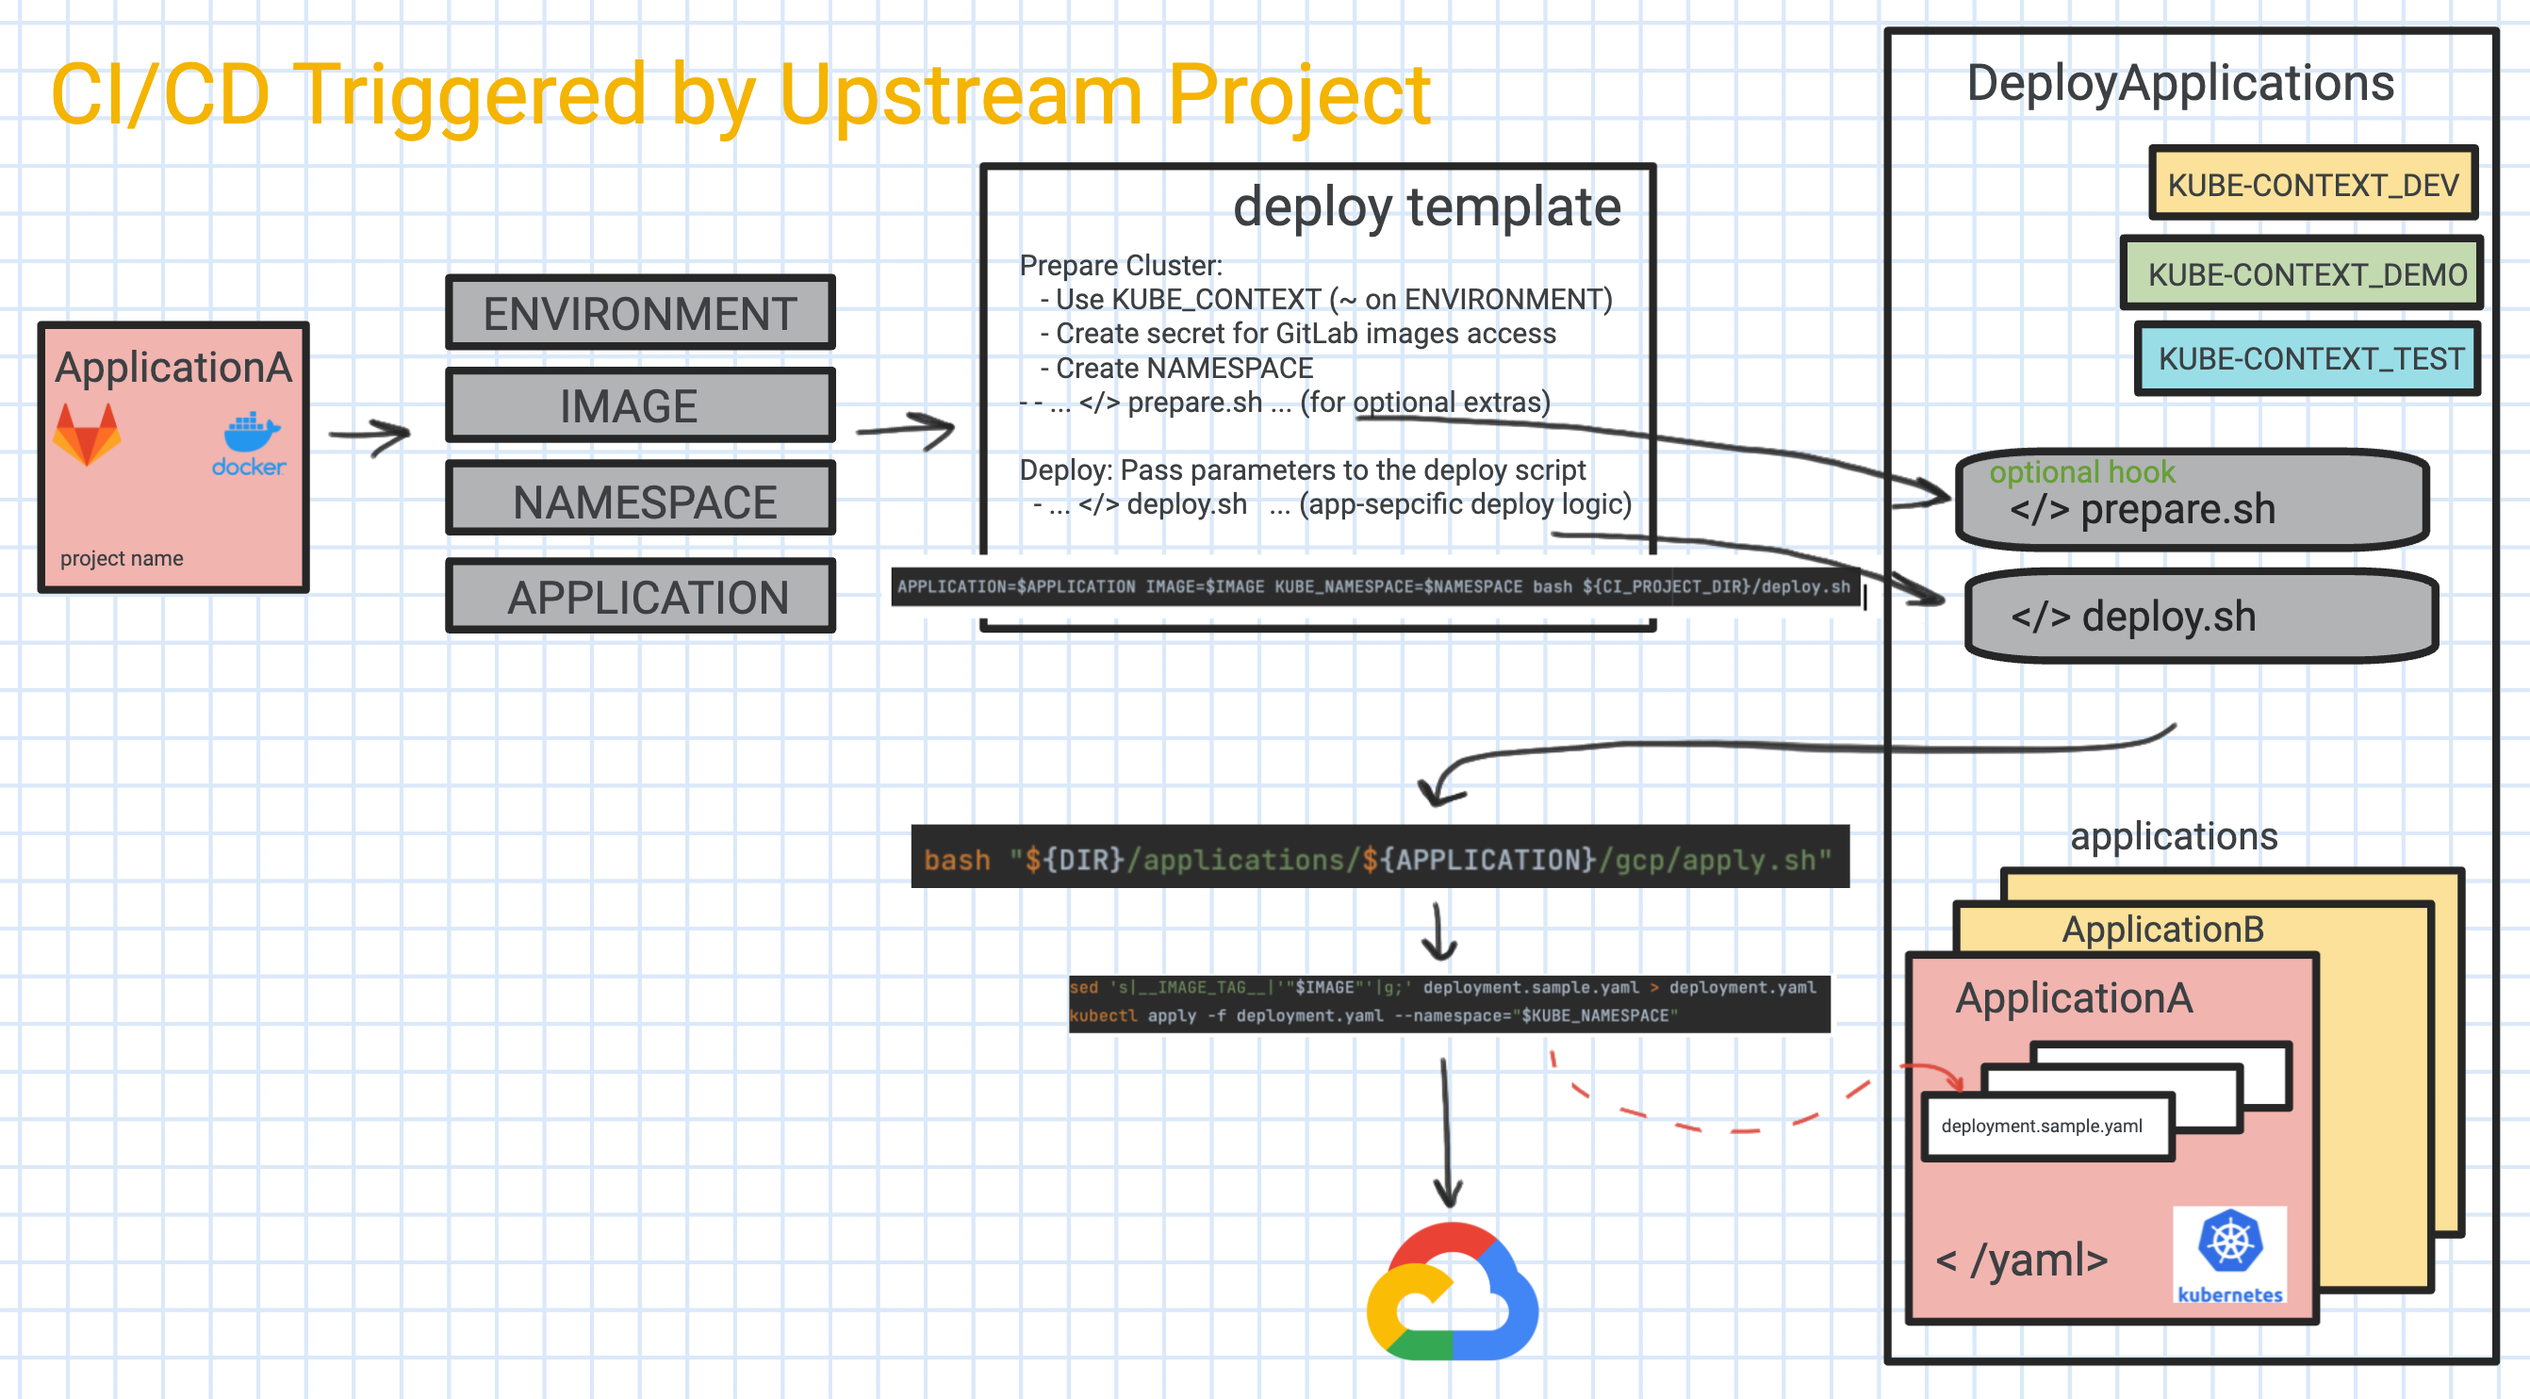
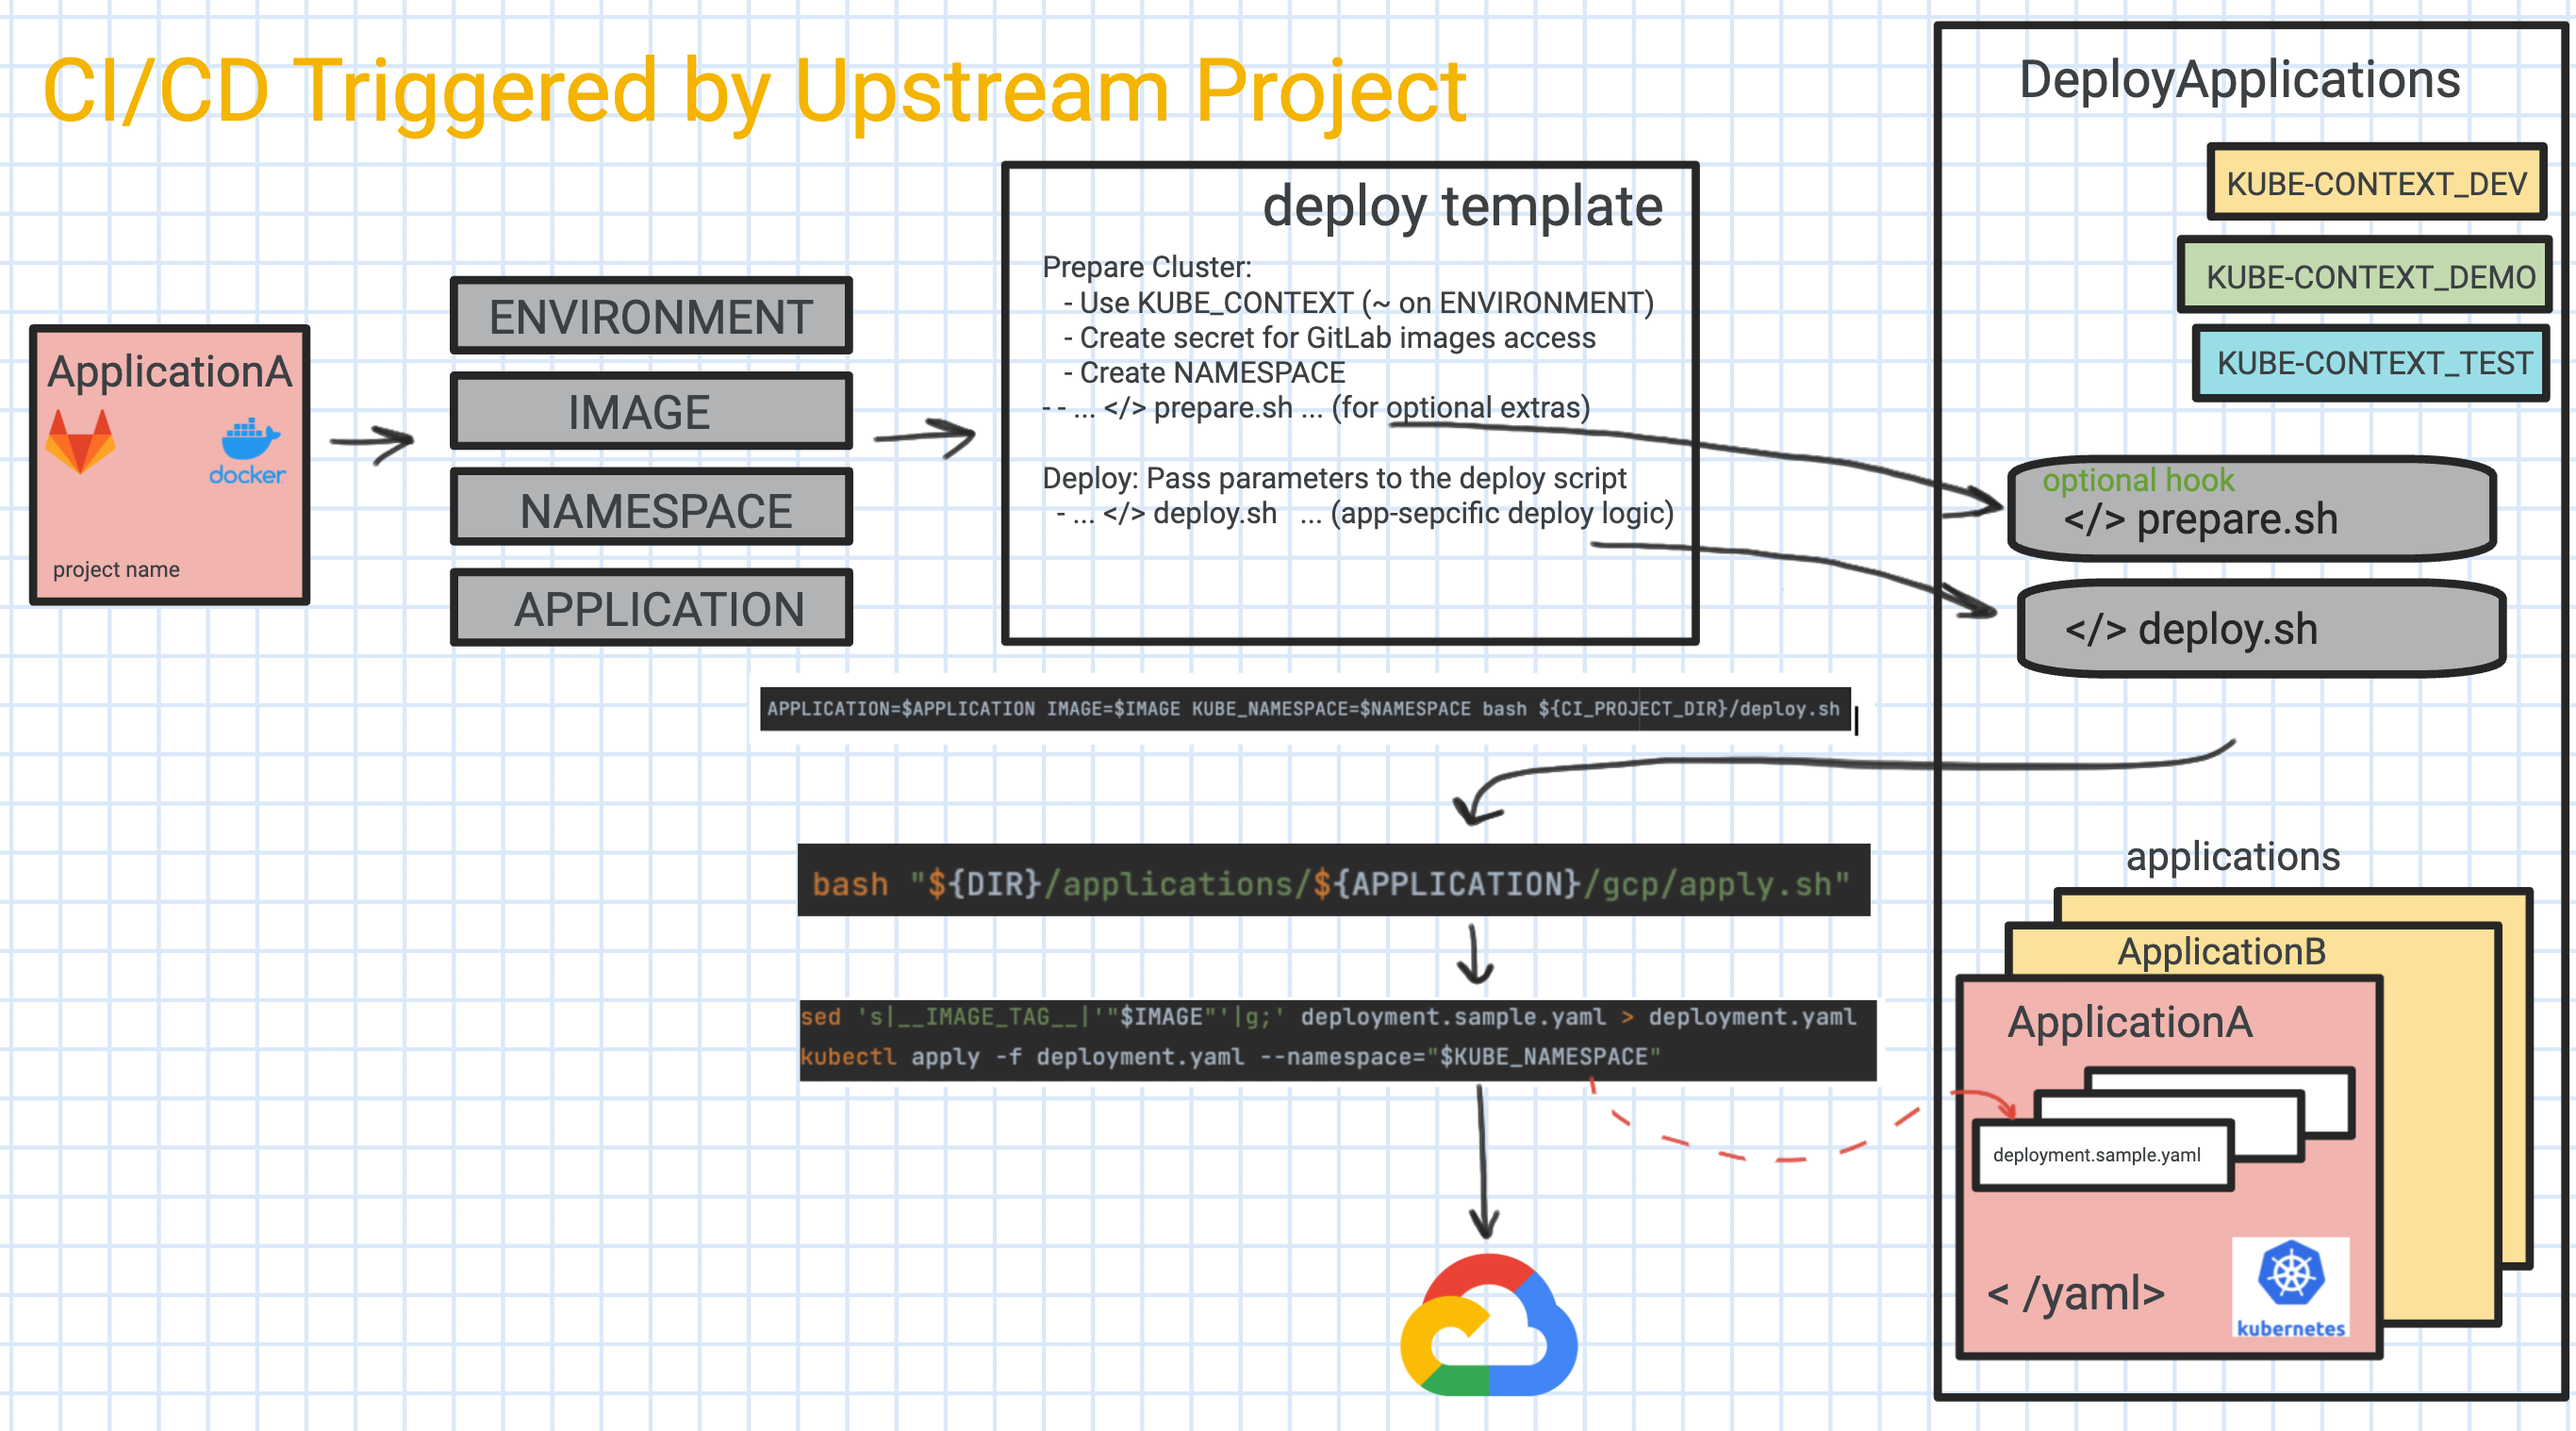
readme

diff --git a/README.md b/README.md
@@ -5,7 +5,7 @@
 - [Overview](#overview)
 - [Setup](#setup)
   * [GitLab Projects](#gitlab-projects)
-  * [CI/CD Environments](#ci-cd-environments)
+  * [Environments](#environments)
 - [Architecture Diagrams](#architecture-diagrams)
 - [Build](#build)
   * [Image Tagging Logic](#image-tagging-logic)
@@ -23,14 +23,14 @@
 
 ## Overview
 
-The goal of this CI/CD infrastructure is to leverage Gitlab integration with GCP and allow single source of truth being Git repository to seamlessly work with configurable GCP deployments addressing the various personas needs.
+The goal of this CI/CD infrastructure is to leverage Gitlab integration with GCP and allow single source of truth being the Git repository to seamlessly work with configurable GCP deployments, addressing the various personas needs.
 The offered templates (modules) allow simplifying CI/CD while accounting for the complex micro-service architecture, when different services can be developed independently and kept in different projects. 
 
 
 Use Cases:
-1) As a *Customer Engineer*  I want to have an easy way to deploy Solution into my own GCP Project environment and use it to demo to a customer, while having full control over the GCP project.
-2) As a *Developer*, I want to be able to work on the feature which spans across multiple projects and have automated CI/CD to deploy images that either belong to the feature and were modified by me, or the released versions. 
-3) As a *QA engineer*, I want to be able to have MR related feature projects bee deployed into the test environment.
+1) As a *Customer Engineer*  I want to have an easy way to deploy Solution into my own GCP Project environment, while having full control over the GCP project.
+2) As a *Developer*, I want to be able to work on the feature which spans across multiple projects and have automated CI/CD to deploy images that either belong to the feature and were modified by me, or to select the released versions. 
+3) As a *QA engineer*, I want to be able to have Merge Requests of the  feature branches to be consistently deployed into the test environment.
 4) As a *Sales Person*, I want to have a stable demo environment for the customer presentations.
 5) ...
 
@@ -39,7 +39,7 @@ Currently, destroying of the deployments is a manual step which could be improve
 
 ## Setup
 ### GitLab Projects
-We will demonstrate the usage of the plug-in templates with the following example of GitLab Projects setup:
+We will demonstrate the usage of the plug-in templates with the following setup.
 
 **Services**: (different Projects, each has Container Registry enabled):
 - ApplicationA - service A
@@ -50,18 +50,21 @@ We will demonstrate the usage of the plug-in templates with the following exampl
 - DeployApplications -  GCP deployment project, containing GKE manifests yaml file for the applications.
 
 **Gitlab Templates**:
-- [This]() Project, offering templates for building and deploying applications into the different GCP environment, while following the lifecycle of the solution development. 
+- [This]() Project, offering templates for building and deploying applications into the different GCP environments, while following the lifecycle of the solution development. 
 
-### CI/CD Environments <a name="ci-cd-environments"></a>
-CI/CD covers Following Environments:
-- *development* environment(s) - personalized GCP environment(s), can be created/setup and used per developer.
-- *test* environment - pre-configured GCP environment used for testing before manually releasing application images or changes to the project setup or deployment flow.
-  The namespace separation (named after the feature branch) will be used during the deployment.
-- *demo* - running stable demo using released images and main branch for the CI/CD deployment.
+### Environments
+CI/CD covers following environments:
+- *demo* - shared environment used for the stable demo, running released images of the applications. 
+- *test* - shared environment used for testing merge requests  before accepting them.
+- *development* - could either be part of the shared environment (default) or could be configured, so that each developer has his/hers own GCP playground to work in.  
 
+The namespace separation is used during the deployment, allowing to host all deployments in the same cluster. 
+Different project/Cluster per environment could also be setup.
 ## Architecture Diagrams
 
-![](img/gcp-gitlab-cicd.png)
+![](img/gcp-gitlab-cicd2.png)
+
+![](img/templates.png)
 
 ![](img/feature-development.png)
 
